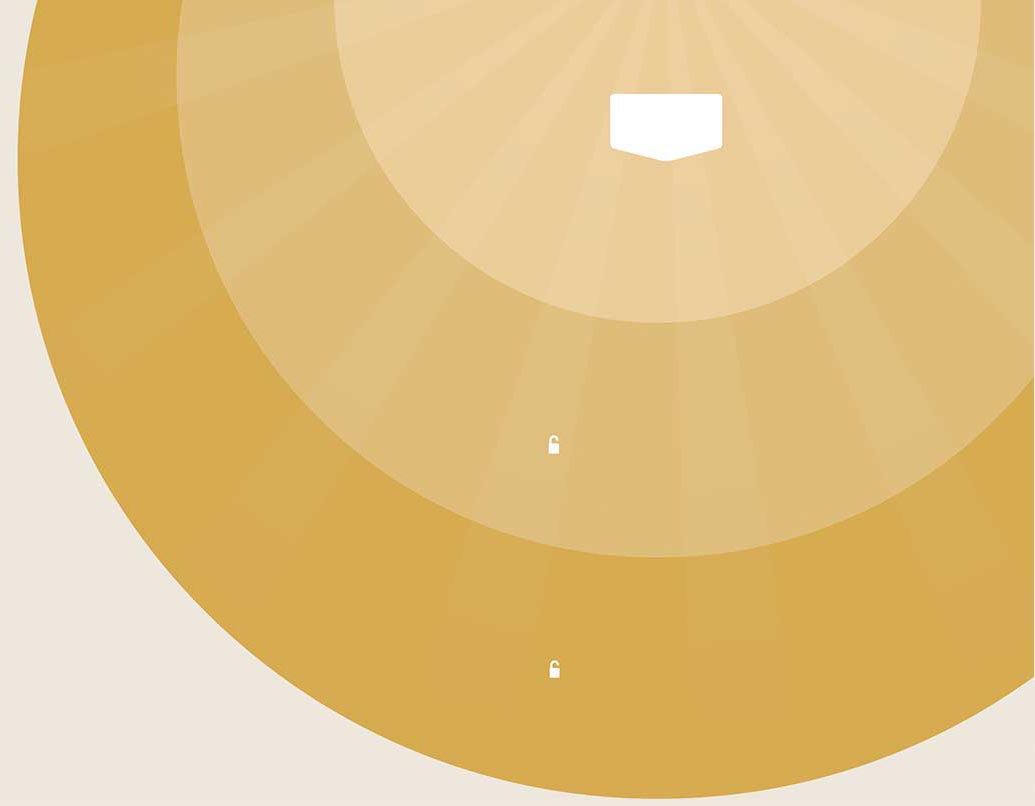
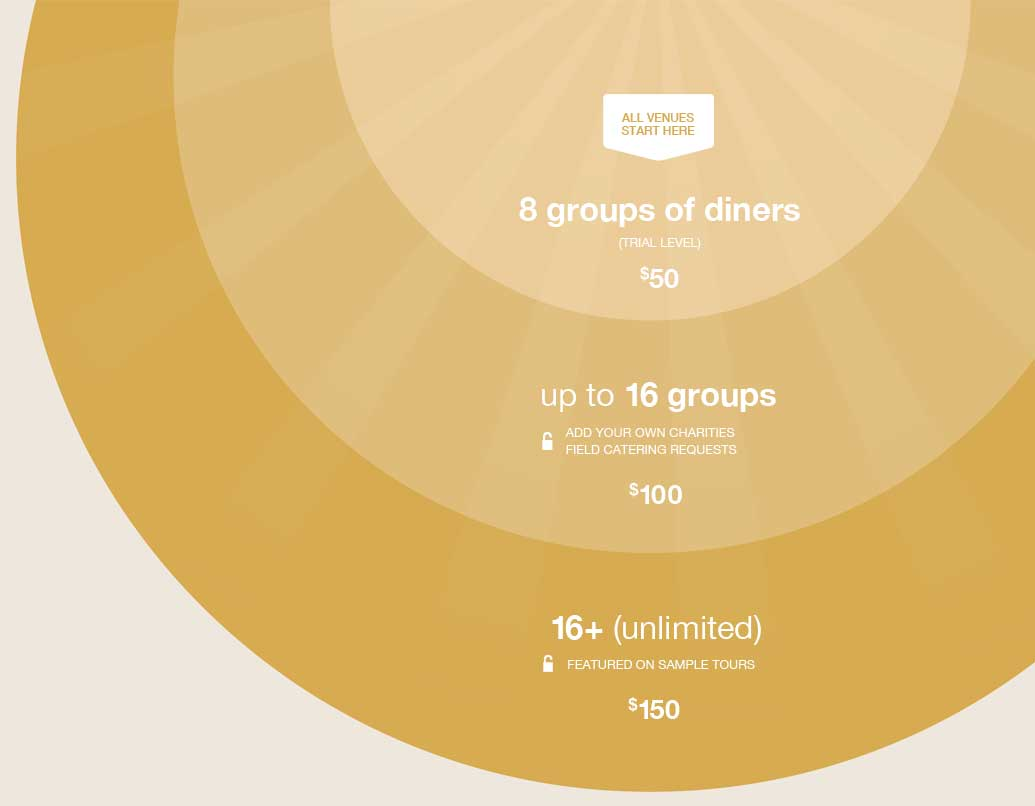
fixes to new landing page

diff --git a/app/assets/stylesheets/signup.css.scss b/app/assets/stylesheets/signup.css.scss
@@ -69,6 +69,7 @@
         }
         .intro-btns {
             float: left;
+            padding-top: 10px;
         }
     }
     .main-box {
@@ -94,11 +95,12 @@
             }
             h4 {
                 color: #fff;
-                padding-bottom: 50px;
+                line-height: 48px;
+                font-size: 37px;
             }
             p {
                 padding-bottom: 0;
-                line-height: 1.2;
+                line-height: 1.25;
             }
             b {
                 font-weight: bold;
@@ -154,9 +156,9 @@
         text-align: center;
         li {
             display: inline-block;
-            width: 32%;
+            width: 31%;
             vertical-align: top;
-            text-align: left;
+            text-align: center;
         }
         h5 {
             color: #701A1A;
@@ -193,7 +195,7 @@
             display: block;
             margin: 50px auto 0;
             width: 150px;
-            font-size: 24px;
+            font-size: 21px;
         }
         blockquote {
             clear: both;
@@ -234,7 +236,7 @@
         }
         .btn-large {
             width: 150px;
-            font-size: 24px;
+            font-size: 21px;
         }
     }
     .call {
@@ -248,7 +250,7 @@
         }
         .desc {
             p {
-                width: 50%;
+                width: 60%;
             }
         }
         .actions {
@@ -266,6 +268,7 @@
             .btn-large {
                 float: right;
                 margin-top: 15px;
+                width: 180px;
             }
         }
     }
@@ -301,7 +304,7 @@
     .bottomvid {
         overflow: hidden;
         position: relative;
-        height: 800px;
+        height: 600px;
         max-width: 1280px;
         margin: 0 auto;
         video {
